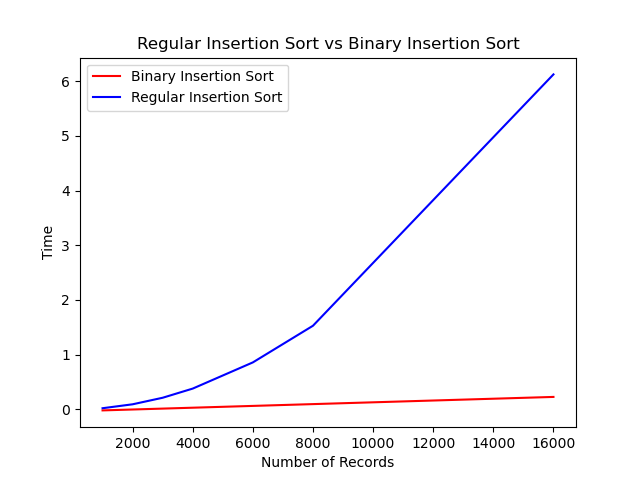
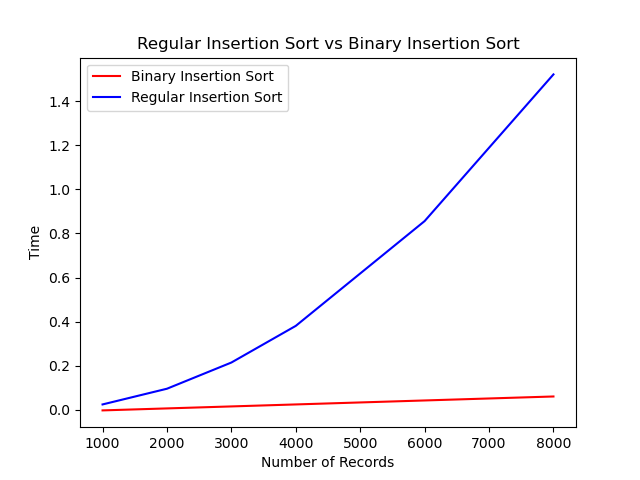
updates to ex5

diff --git a/ex5.py b/ex5.py
@@ -61,7 +61,7 @@ def insertionSort(arr, n):
         arr[j+1]= key
     return arr
 
-vector_sizes = [1000, 2000, 3000, 4000, 6000, 8000, 16000]
+vector_sizes = [1000, 2000, 3000, 4000, 6000, 8000]
 binaryTimes = []
 regularTimes = []
 
